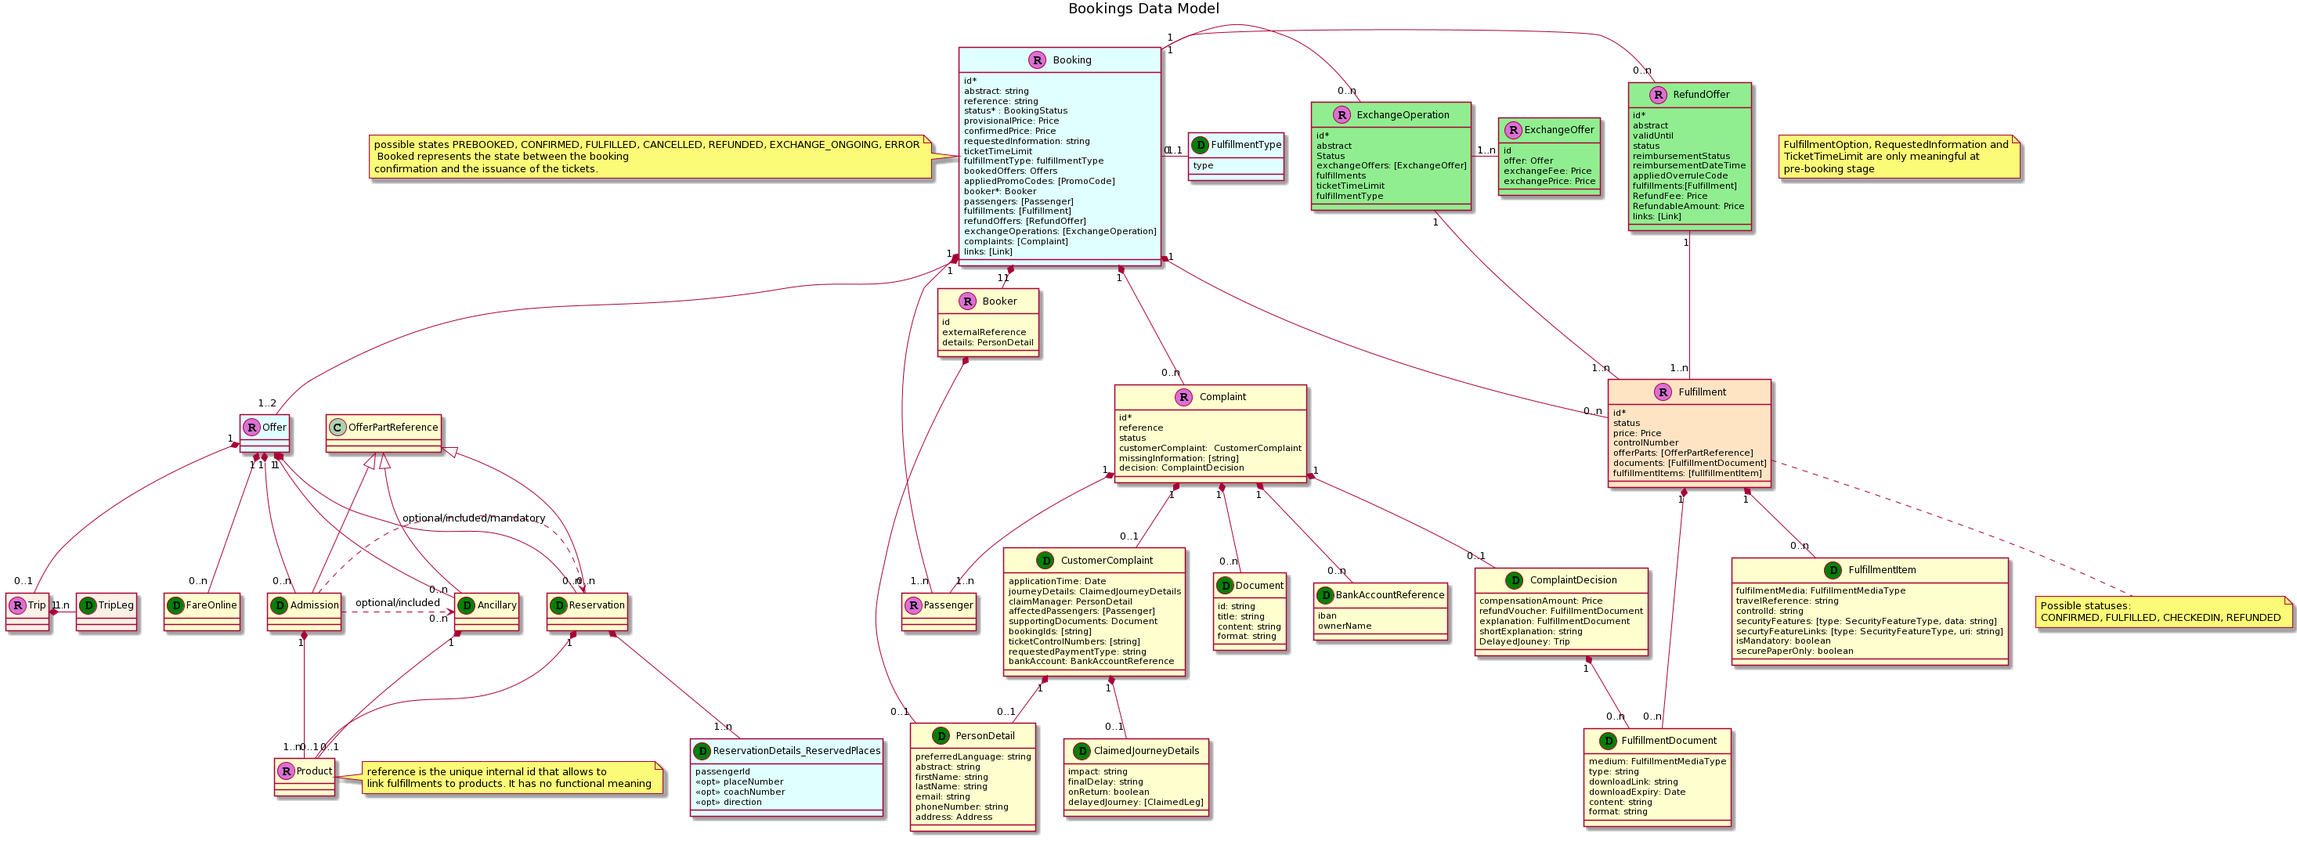
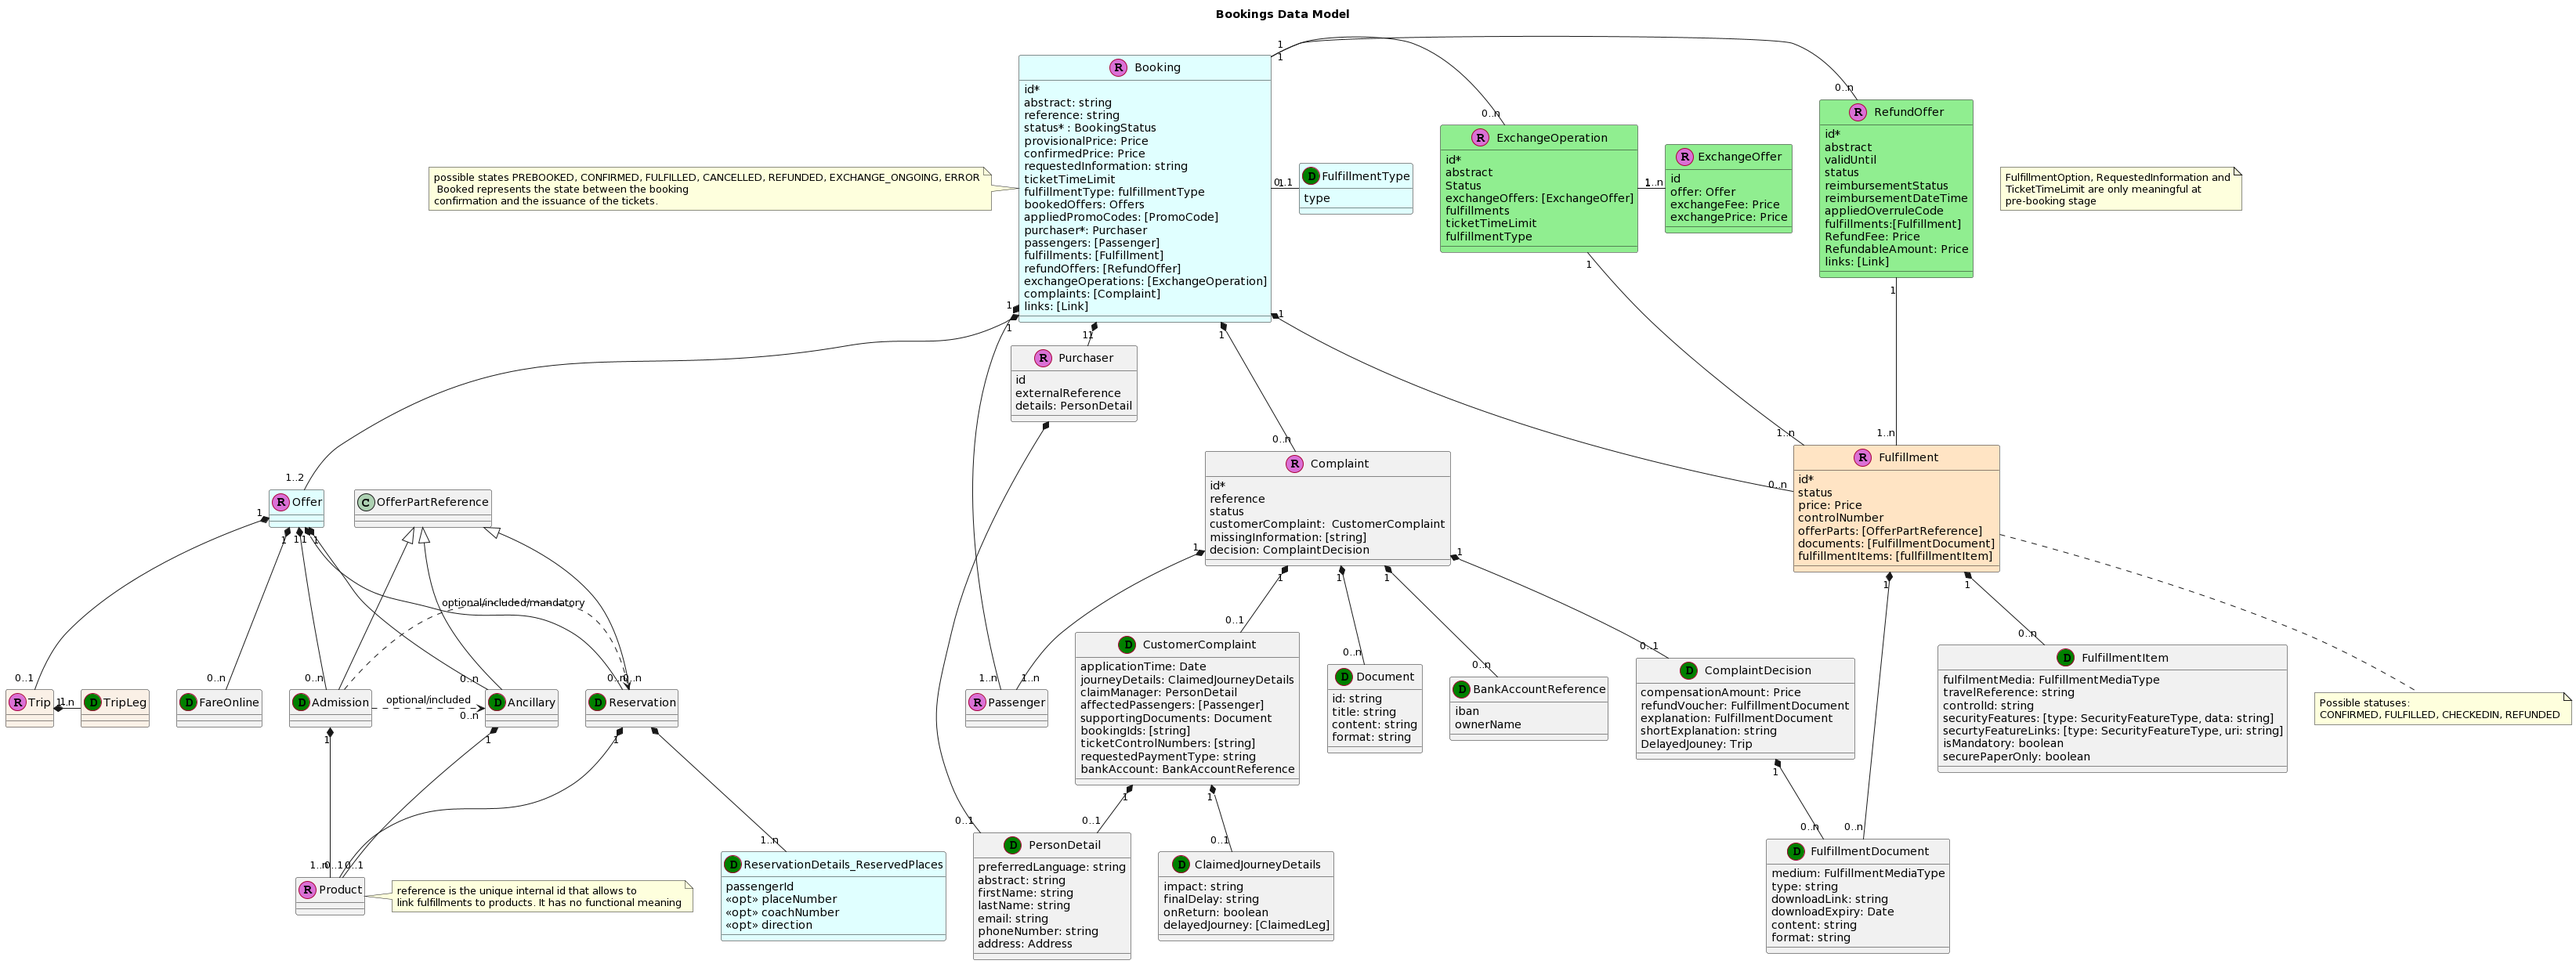
Rename booker to purchaser

diff --git a/spec/models.md b/spec/models.md
@@ -418,9 +418,9 @@ confirmation for the price and possible reservations assigned at provisional
 booking time. Basically, it is the time given to the API consumer to perform
 all updates needed to confirm the booking, and trigger that confirmation.
 
-At the root of the booking structure, Two balance elements are provided, in
-order to clarify the state of the financial exchange between an API consumer or
-booker and the OSDM:Distributor:
+At the root of the booking structure, two balance elements are provided to
+clarify the state of the financial exchange between an API consumer and the
+OSDM:Distributor:
 
 - conditional balance is the balance of the booking that is not confirmed. It
   is the amount that will be due to the provider if the booking is further
@@ -444,12 +444,12 @@ exceed the earliest ticket time limit of any of its offer parts.
 `FulfillmentOptions` allows the API consumer to specify the format desired for
 the fulfillment. Only electronic fulfillment is considered in the MVP scope.
 
-### Booker
+### Purchaser
 
-A booker represent the entity which has booked an offer. It is the person to
+A purchaser represent the entity which has booked an offer. It is the person to
 contact in case of changes to the booking primary.
 
-A booker does not need to travel thus is not necessary a passenger.
+A purchaser does not need to travel thus is not necessary a passenger.
 
 Common attributes of a passenger and a passenger are factored in the person entity.
 

diff --git a/spec/compliance.md b/spec/compliance.md
@@ -46,7 +46,7 @@ The following services/features are mandatory/optional to implement:
 | `/offers/{offerId}/reservations/{reservationId}` | Resources to manipulate seat assignment | *Conditional*; mandatory to be supported in case seat assignment is provided. |
 | `/bookings` | Resources to manipulate bookings | **Mandatory** |
 | `/bookings/{bookingId}/passengers` | Resources to manipulate passenger information at every stage of the flow | **Mandatory** |
-| `/bookings/{bookingId}/booker` | Resources to manipulate a bookers information at every stage of the flow | **Mandatory** |
+| `/bookings/{bookingId}/purchaser` | Resources to manipulate a purchasers information at every stage of the flow | **Mandatory** |
 | `/products` | Resources to retrieve products information on one or more products | *Optional* |
 | `/bookings/{bookingId}/fulfillments` and `/fulfillments` | Resources to retrieve fulfillments, e.g. tickets | **Mandatory** is to support A4 PDF tickets. |
 | `/bookings/{bookingId}/refundOffers` | Resources to get and accept a refund offer | **Mandatory** is to support full refund. |

diff --git a/spec/synchronization-management.md b/spec/synchronization-management.md
@@ -26,7 +26,7 @@ The API informs authorized listener of the fact that changes have occurred using
 
 - `REFUND_INITIATED` - refund initiated at provider level, e.g. at the station office. Needs to happen before travel. This implies releasing potentially booked places or ancillaries (e.g. meal).
 
-- `BOOKER_CHANGED` - `PATCH /bookings/{id}/booker`: name or contact data changed
+- `PURCHASER_CHANGED` - `PATCH /bookings/{id}/purchaser`: name or contact data changed
 - `PASSENGER_CHANGED` - `PATCH /bookings/{id}/passenger`: name or contact data changed
 
 ### Complaints

diff --git a/spec/requirements.md b/spec/requirements.md
@@ -220,7 +220,7 @@ It must be possible to search for bookings:
 To support stateless booking a explicit pre-booking step is *not* supported
 by design.
 
-A booking has a booker which has booked the booking. The booking can but most not
+A booking has a purchaser which has booked the booking. The booking can but most not
 be a passenger.
 
 Booking must be supported by all parties.
